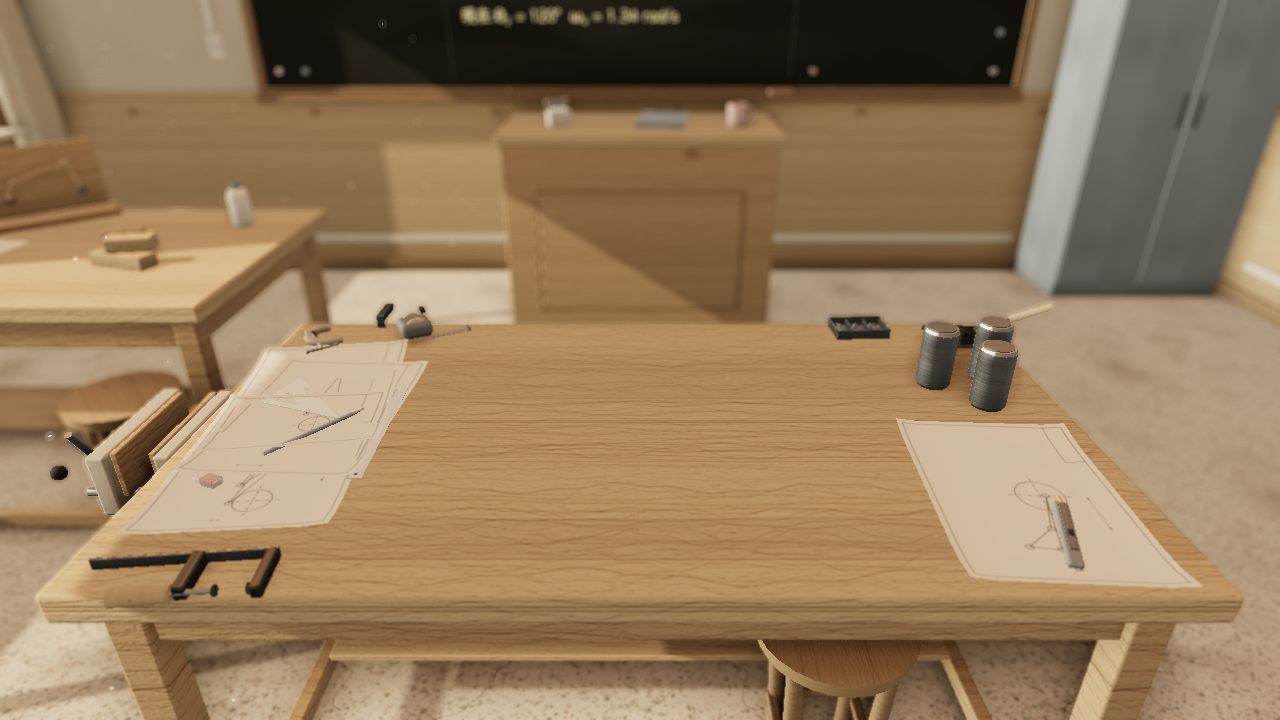
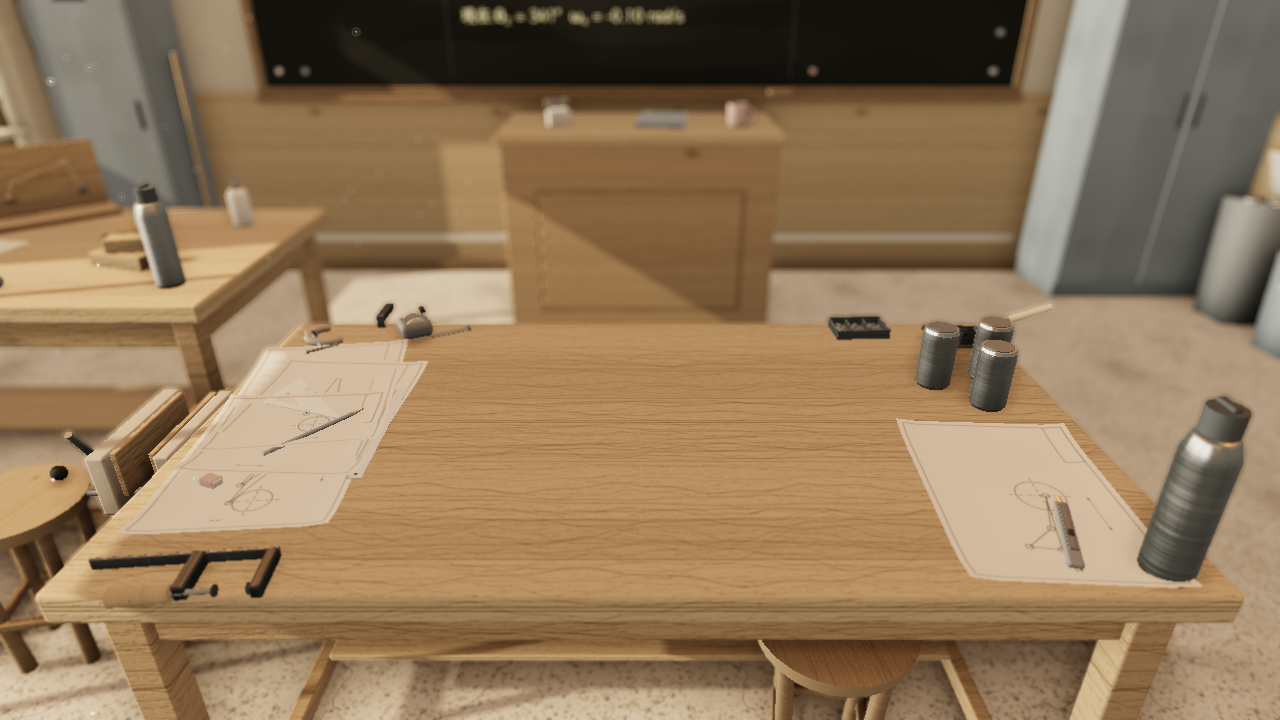
Docs: batch-2 measurements and screenshots
Claude-Session: https://claude.ai/code/session_01RSUiidGSWbJNSQ7DuRSy6Z

diff --git a/docs/scene-decisions.md b/docs/scene-decisions.md
@@ -118,6 +118,21 @@
 - **窗戶部分打開**:中間那扇內側窗扇拉開 0.55 m、後面那扇拉開 0.3 m(只改位置,不增加幾何)。
 - **椅子**:三張圓凳各自偏轉 +10°、−12°、+7°;左前那張拉開到桌外(z −0.88)。學生桌下那張不動,避免和站在原點的學生重疊。
 
+### 第二批前後量測(前 = 第一批完成後;同一組鏡頭)
+| 模式 | 視角 | draw calls 前 → 後 | 差 | 三角形 前 → 後 | 差 |
+| --- | --- | --- | --- | --- | --- |
+| high | 工作桌 | 594 → 606 | +12 | 1,249,181 → 1,311,881 | +62,700 |
+| high | 全景 | 517 → 519 | +2 | 871,118 → 912,726 | +41,608 |
+| high | 後牆 | 362 → 370 | +8 | 829,244 → 872,116 | +42,872 |
+| vr | 工作桌 | 181 → 179 | −2 | 398,836 → 409,012 | +10,176 |
+| vr | 全景 | 238 → 236 | −2 | 417,876 → 428,052 | +10,176 |
+| vr | 後牆 | 163 → 162 | −1 | 398,312 → 409,388 | +11,076 |
+| vr-baked | 工作桌 | 99 → 98 | −1 | 192,142 → 197,230 | +5,088 |
+| vr-baked | 全景 | 156 → 155 | −1 | 211,182 → 216,270 | +5,088 |
+| vr-baked | 後牆 | 81 → 81 | 0 | 191,618 → 197,606 | +5,988 |
+- 第一次量測時 `vr-baked` 後牆視角 +1:掃具櫃與材料櫃共用批次,批次範圍變成橫跨前牆兩角,後牆鏡頭不再把它裁掉。改法是把天花燈框從獨立的 InstancedMesh 改成靜態幾何併入既有批次(全場 −1 個 draw call)。
+- 垃圾桶與回收桶改為蓋子關上,桶內雜物移除。
+
 ## 未完成 / 需實機確認
 - Quest 3 左手把 Y 鍵索引、手勢判定門檻、`vr` / `vr-baked` 是否達 72 fps:無法在自動化環境測試。
 - VR 傳送的參考空間偏移已依 WebXR 規格實作,但未在實機上驗證。
